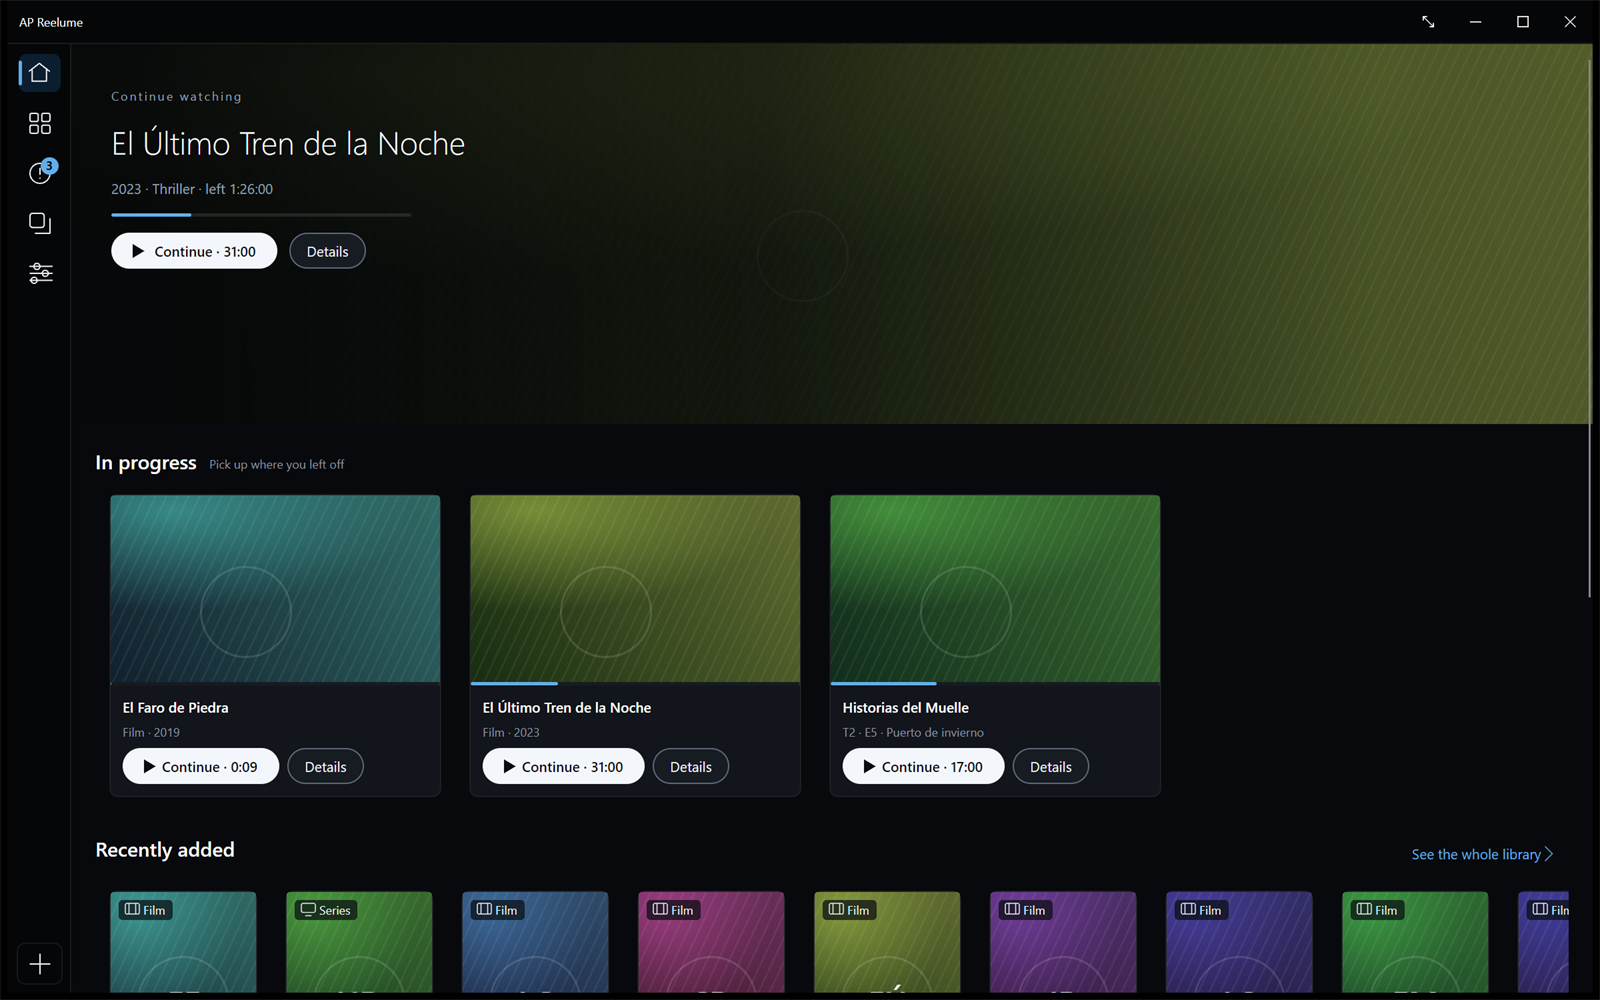
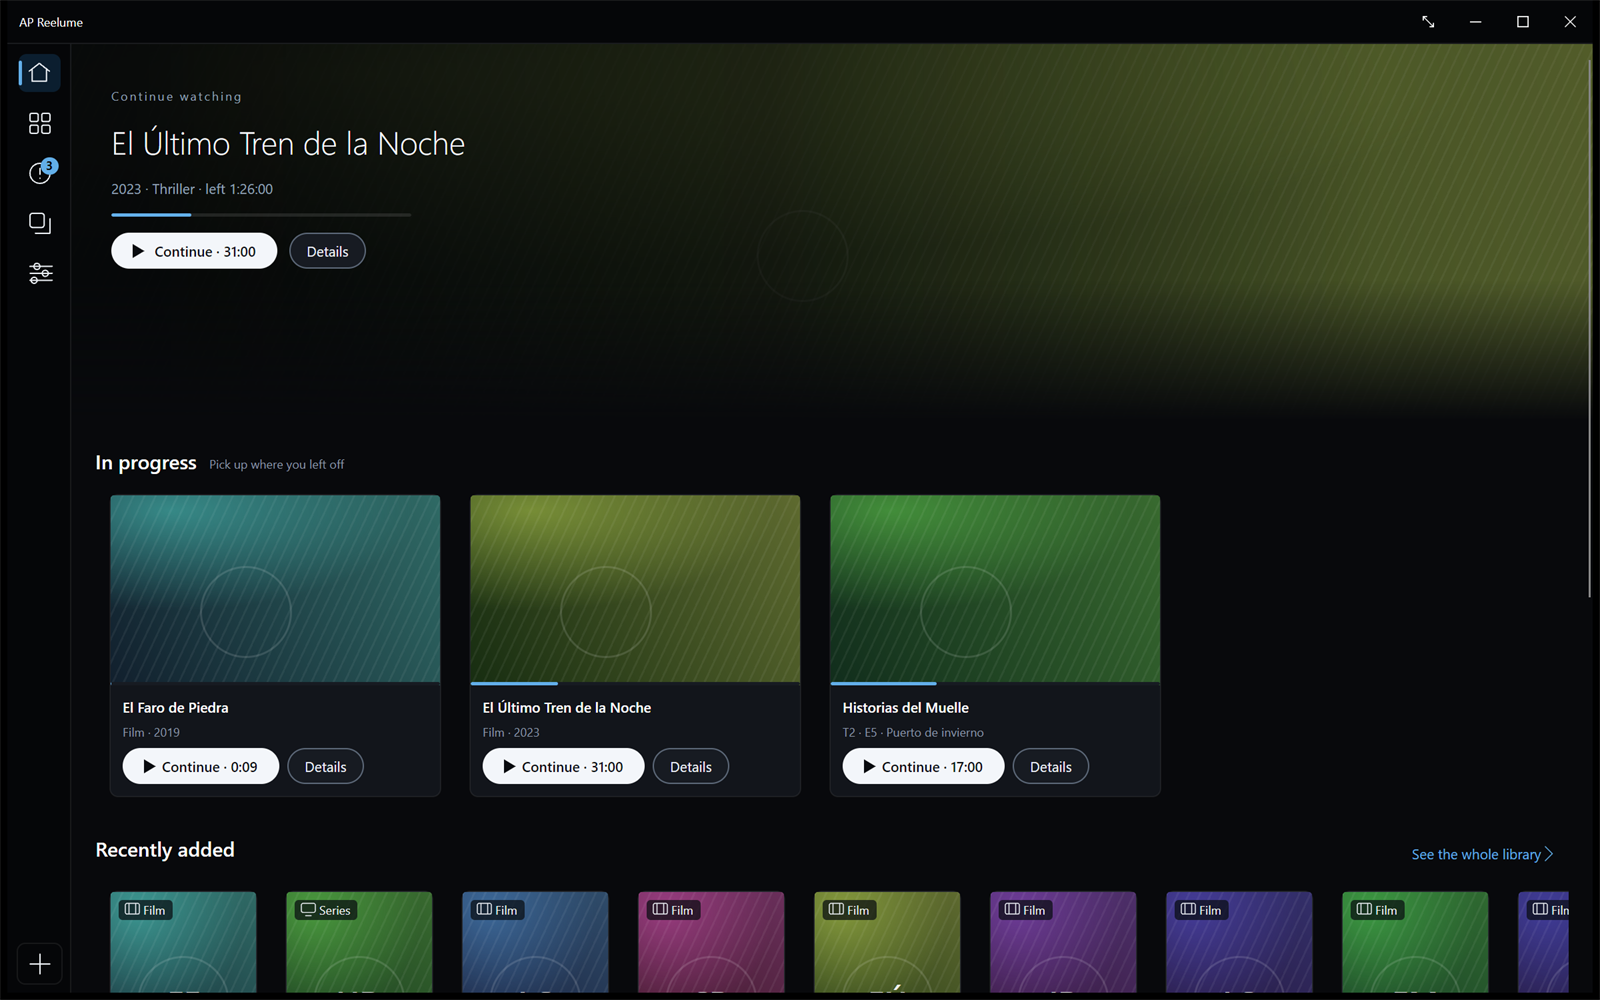
Home's hero ends in the page, the way the prototype ends it
The prototype draws two veils over the hero's artwork and this drew one:
the second is the page's own colour rising from the bottom edge, so the
hero fades out instead of stopping at a line. Painted as the surface
brush behind an opacity mask, because the colour belongs to whichever of
the four dictionaries is loaded and a hex written in the view is right
in exactly one of them.

Changed region(s): [[0.5625, 0.31, 1.0, 0.434]]

diff --git a/docs/CHANGELOG.en.md b/docs/CHANGELOG.en.md
@@ -10,6 +10,14 @@ The format follows [Keep a Changelog](https://keepachangelog.com/en/1.1.0/) and 
 
 ### Fixed
 
+- **Home's hero ends in the page rather than at a line across it.** The prototype draws two veils
+  over the artwork: the directional one that was already here, and the page's own colour rising from
+  the bottom edge. It is painted as the surface brush behind an opacity mask rather than as a
+  gradient of colours, because the colour has to be the theme's — four dictionaries, and a hex
+  written there is right in one of them.
+
+### Fixed
+
 - **The three title tools are in the card rather than under the library.** «Edit metadata», «Preview
   rename» and «Review versions» were a row of buttons under the grid, acting on «the open title» on a
   screen where none need be open. The prototype puts them in the banner's action row, and that is

diff --git a/docs/CHANGELOG.es.md b/docs/CHANGELOG.es.md
@@ -10,6 +10,14 @@ evidencia, es [FEATURES.md](FEATURES.md).
 
 ### Corregido
 
+- **El héroe de Inicio termina en la página, no en una línea.** El prototipo dibuja dos velos sobre
+  la obra: el direccional que ya estaba y el color de la propia página subiendo desde el borde
+  inferior. Va como pincel de superficie tras una máscara de opacidad y no como degradado de colores,
+  porque el color tiene que ser el del tema —son cuatro diccionarios, y un hexadecimal escrito ahí
+  acierta en uno.
+
+### Corregido
+
 - **Las tres herramientas del título están en la ficha, no bajo la biblioteca.** «Editar metadatos»,
   «Previsualizar renombrado» y «Revisar versiones» eran una fila de botones bajo la cuadrícula, que
   actuaban sobre «el título abierto» en una pantalla donde puede no haber ninguno abierto. El
